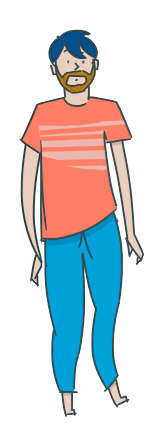
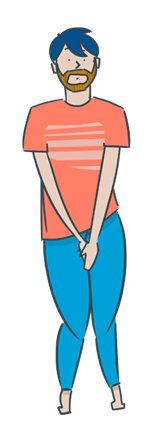
Nuevo versión del dibujo para la portada

Changed region(s): [[0.1266, 0.205, 0.9114, 0.9369], [0.2532, 0.0586, 0.6582, 0.2342]]

diff --git a/css/estilos.css b/css/estilos.css
@@ -267,10 +267,8 @@ ul li ul {
 }
 #img-portada-web {
   text-align: center;
-  background-image: url("../img/fnd-micromachismos-chico-protagonista.png");
   padding: 0;
   margin: 0;
-  background-color: #f00;
   height: 444px;
 }
 
@@ -425,7 +423,7 @@ ul li ul {
   padding-bottom: 20px;
 }
 
->>>>>>> remotes/origin/master
+
 .quien_soy ul li {
   list-style: none;
 }
@@ -540,7 +538,6 @@ ul li ul {
     text-align: center;
     padding: 0;
     margin: 0 0 0 20%;
-    background-color: #f00;
     height: 444px;
     width: 20%;
   }
@@ -572,7 +569,7 @@ ul li ul {
   .container,
   .inicio {
     width: 100%;
-    background-image: url("../img/fnd-micromachismos-chico-protagonista.png");
+    /*background-image: url("../img/fnd-micromachismos-chico-protagonista.png");*/
 
   }
   .el_proyecto img {
